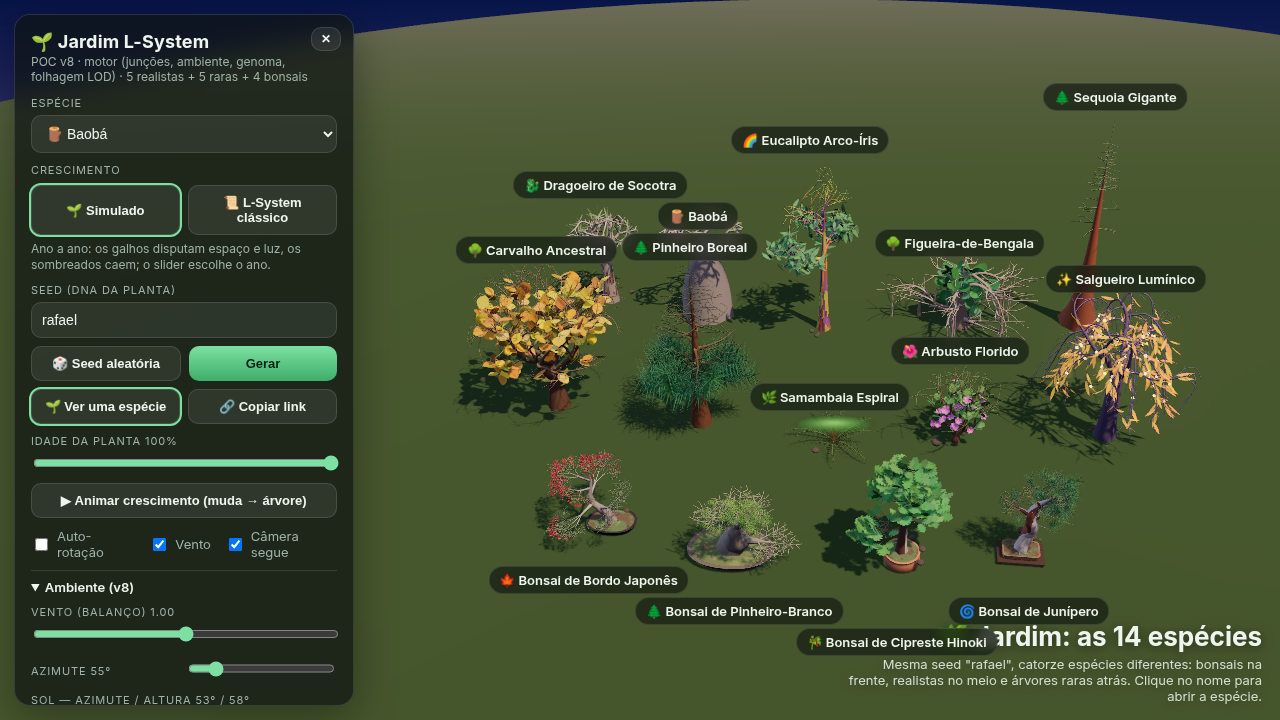
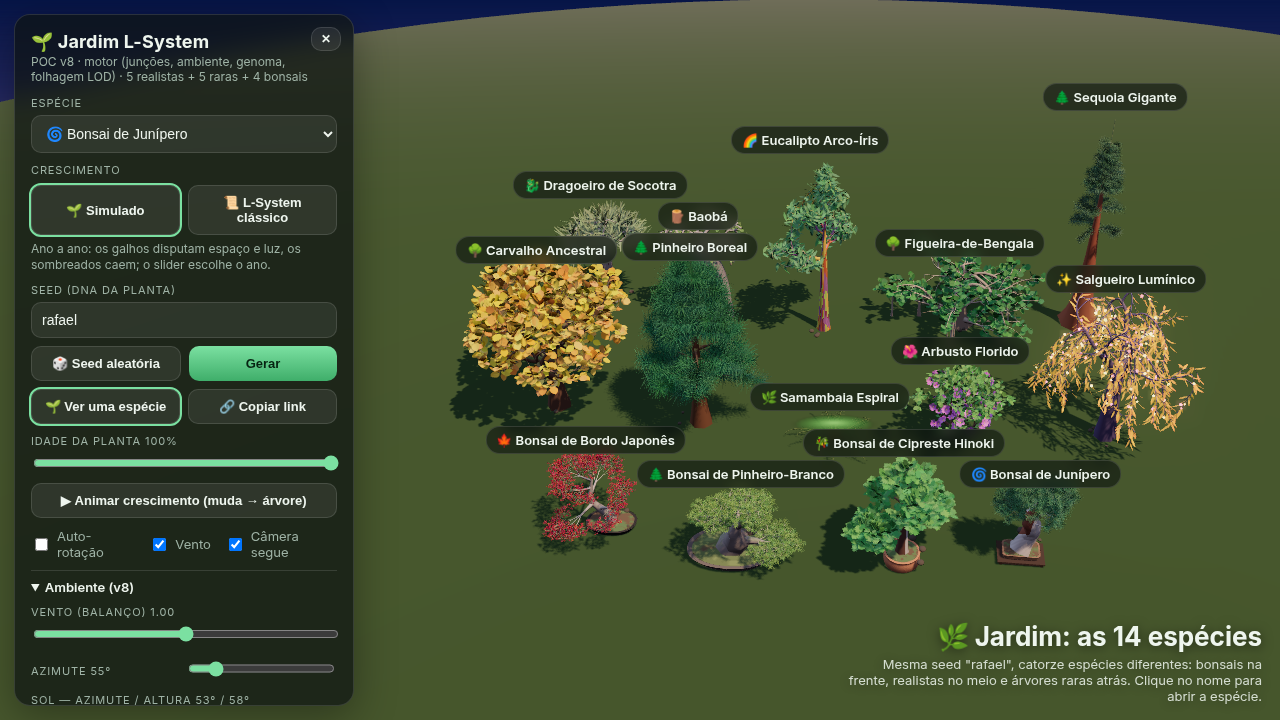
fix(v8): veio contínuo no junípero e copa cheia no jardim
O shari/jin deixa de furar o tubo e volta ao veio do shader da v7.
No jardim a folhagem não rareia no enquadramento, e os nomes dos
bonsais ficam acima da legenda.

diff --git a/index.html b/index.html
@@ -544,7 +544,6 @@ const depthMat = (kind, U, fx) => patch(new THREE.MeshDepthMaterial({ depthPacki
 
 const catmull = (a, b, c, d, t) => { const t2 = t * t, t3 = t2 * t; return 0.5 * (2 * b + (-a + c) * t + (2 * a - 5 * b + 4 * c - d) * t2 + (-a + 3 * b - 3 * c + d) * t3); };
 
-const idShari = (sp) => sp && (sp.fx === 'cipreste' || sp.fx === 'junipero');
 function buildTubes(sk, rFull, sp, P, rng, W, tags) {
   const TB = sp.tube; // v5: opções de tubo (tube.bump: perfil do tronco)
   const { N, X, Y, Z, PAR, T0, T1 } = sk;
@@ -621,15 +620,6 @@ function buildTubes(sk, rFull, sp, P, rng, W, tags) {
         const d = (arc - arc0) * scaleD;
         let bv = g.cap ? 0 : 1 + amp * ((0.55 * Math.sin(3 * th + ph1 + d * 1.3) + 0.45 * Math.sin(5 * th - d * 2.1 + ph2)) * (0.6 + 0.4 * nr));
         if (TB && TB.bump && !g.cap) bv *= TB.bump(th, arc, g, collarParent === -1, P);
-        if (!g.cap && tag > 0.5) bv *= 0.42 + 0.5 * Math.abs(Math.sin(th * 3.0 + d * 5.0));
-        if (!g.cap && (idShari(sp) && rF > (rFull[list[1]] || 0) * 0.35)) {
-          const cover = P.shari ?? P.dead ?? 0.2;
-          const twist = P.shariTwist ?? P.twist ?? 0;
-          const ang = th - twist * d * 0.35 - (P.phase || 0);
-          const edge = Math.cos(Math.PI * cover);
-          const band = Math.min(1, Math.max(0, (Math.cos(ang) - (edge - 0.18)) / 0.36));
-          bv *= 1 - 0.34 * band;
-        }
         bump.push(bv);
         if (sp.fx) fxa.push(tag);
         clr.push(c0.r, c0.g, c0.b);
@@ -684,12 +674,14 @@ function makeInstanced(kind, items, sp, P, rng, U, night, tags, lod, lodScale = 
   });
   geo.setAttribute('aLife', new THREE.InstancedBufferAttribute(lives, 2));
   let count2 = count, mats2 = mats, cols2 = cols;
-  const thin = lod && (kind === 'leaf' || kind === 'needles') && count > 1200;
-  if (thin) { // v8: LOD — menos instâncias, cachos maiores; impostor simples ao longe
-    const keep = lodScale < 0.45 ? 4 : 2;
+  // Jardim: no máximo 1 em cada 2 folhas, desenhadas √2 maiores para a silhueta continuar cheia.
+  // A redução forte (1/4) deixava sequoia, pinheiros e bonsais ralos na distância do jardim.
+  const thin = lod && lodScale < 0.75 && (kind === 'leaf' || kind === 'needles') && count > 2400;
+  if (thin) {
+    const keep = 2;
     count2 = Math.ceil(count / keep); mats2 = new Float32Array(count2 * 16); cols2 = new Float32Array(count2 * 3); const l2 = new Float32Array(count2 * 2);
     const mm = new THREE.Matrix4();
-    const scaleMul = lodScale < 0.45 ? 2.1 : 1.35;
+    const scaleMul = Math.sqrt(keep);
     for (let i = 0, j = 0; i < count; i += keep, j++) {
       mm.fromArray(mats, i * 16); const e = mm.elements; for (const q of [0, 1, 2, 4, 5, 6, 8, 9, 10]) e[q] *= scaleMul; mm.toArray(mats2, j * 16);
       cols2.set(cols.subarray(i * 3, i * 3 + 3), j * 3); l2.set(lives.subarray(i * 2, i * 2 + 2), j * 2);
@@ -795,7 +787,8 @@ function assemblePlant(pkg) {
     mesh.castShadow = mesh.receiveShadow = true;
     group.add(mesh);
   };
-  const joints = buildJointMeshes(sk, rTube, null, { limit: opts.lod ? 16 : 40 });
+  const deadwood = sp.fx === 'junipero' || sp.fx === 'cipreste';
+  const joints = deadwood ? null : buildJointMeshes(sk, rTube, null, { limit: opts.lod ? 16 : 40 });
   if (joints) {
     const barkCol = sp.bark(P)[0];
     addPlain(joints.joints, asColor(barkCol), 0.88);
@@ -812,7 +805,7 @@ function assemblePlant(pkg) {
     }
   }
   let nInst = 0;
-  const lodS = opts.lod ? 0.4 : 1;
+  const lodS = opts.lod ? 0.7 : 1;
   for (const k in inst) { if (!inst[k].length) continue; group.add(makeInstanced(k, inst[k], sp, P, rng, U, night, tags, W.lod, lodS)); nInst += inst[k].length; }
   const scale = sp.height / Math.max(rawH, rawW * 0.75);
   const cx = (box.min.x + box.max.x) / 2, cz = (box.min.z + box.max.z) / 2;
@@ -1157,7 +1150,8 @@ async function generate({ animate = true } = {}) {
           const b = pl.box.clone().translate(new V3(cx, 0, z)); all.union(b);
           const el = document.createElement('div'); el.className = 'glabel'; el.textContent = `${pl.sp.emoji} ${pl.sp.name}`;
           el.onclick = () => { ui.species.value = pl.id; setMode('single'); generate(); };
-          $('labels').appendChild(el); labels.push({ el, pos: ids === ROWS[0] ? new V3(cx, -0.2, z + Math.min(depth * 0.3, 2.5)) : new V3(cx, b.max.y + 0.4, z), above: ids !== ROWS[0] }); // v5: fileiras de trás com o nome em cima da copa
+          $('labels').appendChild(el);
+          labels.push({ el, pos: new V3(cx, b.max.y + (ids === ROWS[0] ? 0.15 : 0.4), z), above: true });
         });
         prevDepth = depth;
       }
@@ -1309,12 +1303,13 @@ function loop() {
     pl.object.getWorldPosition(tmpV);
     const dist = camera.position.distanceTo(tmpV);
     const h = Math.max(pl.box.getSize(tmpV).y, 0.5);
-    const far = dist > h * 16;
+    const pix = h / (2 * Math.tan(camera.fov * DEG * 0.5) * Math.max(dist, 0.5)) * innerHeight;
+    const far = pix < 42;
     if (pl.impostor) pl.impostor.visible = far;
     for (const m of pl.foliage) {
       m.visible = !far;
       if (!m.userData.fullCount) m.userData.fullCount = m.count;
-      m.count = far ? m.userData.fullCount : dist > h * 8 ? Math.max(8, m.userData.fullCount >> 2) : dist > h * 4.5 ? Math.max(8, m.userData.fullCount >> 1) : m.userData.fullCount;
+      m.count = m.userData.fullCount;
     }
   }
   controls.update();
@@ -1333,6 +1328,13 @@ function loop() {
     for (let i = 0; i < vis.length; i++) for (let j = 0; j < i; j++) {
       const a = vis[i], b = vis[j];
       if (Math.abs(a.x - b.x) < (a.w + b.w) / 2 + 4 && a.y < b.y + b.h + 3 && a.y + a.h > b.y - 3) { a.y = b.y + b.h + 3; j = -1; }
+    }
+    const cap = $('caption');
+    if (cap) {
+      const r = cap.getBoundingClientRect();
+      for (const l of vis) {
+        if (l.x + l.w / 2 > r.left - 10 && l.x - l.w / 2 < r.right + 10 && l.y + l.h > r.top - 6 && l.y < r.bottom) l.y = r.top - l.h - 10;
+      }
     }
     for (const l of vis) { l.el.style.left = l.x + 'px'; l.el.style.top = l.y + 'px'; }
   }

diff --git a/docs/ROADMAP.md b/docs/ROADMAP.md
@@ -4,9 +4,9 @@
 
 Os itens 1 (colonização do espaço + luz) e 2 (simulação de crescimento ano a ano) foram feitos na v7 ([ARQUITETURA §13](ARQUITETURA.md#13-crescimento-simulado-v7)). Ficaram anotados para depois:
 
-3. ~~**Superfície única nas junções.**~~ **v8**: esferas nas forquilhas grossas (tronco e andaime, sem teto de 4000 nós) + shari/jin entalhados no raio do tubo. Não é um SDF contínuo em toda a copa.
+3. ~~**Superfície única nas junções.**~~ **v8**: esferas nas forquilhas grossas (tronco e andaime, sem teto de 4000 nós). No junípero e no cipreste a madeira morta é o veio contínuo do shader, como na v7. Não é um SDF contínuo em toda a copa.
 4. ~~**Física e ambiente.**~~ **v8**: vento, sol, gravidade e fototropismo no painel (desligados no padrão para não mudar a v7). Com eles ligados, a sombra da simulação segue o sol, a copa entorta e os galhos grossos vergam. Raízes desviam de pedras e ficam dentro do vaso.
-5. ~~**Folhagem melhor e mais leve.**~~ **v8**: a simulação inteira vai para Web Workers; no jardim, folhas distantes caem para 1/2, 1/4 e depois um impostor. Cachos grandes no close-up foram retirados porque inchavam a copa.
+5. ~~**Folhagem melhor e mais leve.**~~ **v8**: a simulação inteira vai para Web Workers. No enquadramento do jardim a copa fica cheia (no máximo metade das folhas, desenhadas maiores). O impostor só aparece quando a planta ocupa menos de ~40 px. Cachos grandes no close-up foram retirados porque inchavam a copa.
 6. ~~**Seed como genoma legível.**~~ **v8**: nove genes, painel, cruzamento, mutação, hash `&genoma=`, PNG e glTF.
 
 ## Geometria e madeira

diff --git a/docs/ARQUITETURA.md b/docs/ARQUITETURA.md
@@ -272,5 +272,5 @@ A montagem pesada (L-System ou simulação) roda em `plant-worker.mjs` (`buildSk
 
 Por padrão os genes são **mostrados** e não aplicados, a gravidade e o fototropismo começam em 0 e a sombra da simulação continua vertical — o visual padrão acompanha a v7. Cruzar, mutar ou mover um gene passa a aplicar o genoma (`&genoma=` no hash).
 
-Junções: esferas só nas forquilhas grossas (tronco e andaime, inclusive o carvalho), com material simples de casca. Shari e jin entalham o raio do tubo (`aBump`) e o jin ganha lascas claras. Raízes de superfície desviam de três pedras semeadas e, no bonsai, permanecem dentro da elipse do vaso. Folhagem distante reduz instâncias e, mais longe, troca por um impostor.
+Junções: esferas só nas forquilhas grossas (tronco e andaime, inclusive o carvalho), com material simples de casca. No junípero e no cipreste a madeira morta continua o veio contínuo do shader (`LS_DEAD`), sem furar o tubo. Raízes de superfície desviam de três pedras semeadas e, no bonsai, permanecem dentro da elipse do vaso. No jardim a folhagem fica na densidade da v7 (no máximo 1 em cada 2 folhas, desenhadas maiores); o impostor só entra quando a planta ocupa menos de ~40 px.
 

diff --git a/docs/HISTORICO.md b/docs/HISTORICO.md
@@ -7,6 +7,7 @@ Datas no horário de Brasília (UTC−3).
 - Visual padrão de novo alinhado à v7: genes só mudam a planta quando o usuário cruza, muta ou edita um controle. Gravidade e fototropismo começam em zero. A sombra simulada volta a cair na vertical até o sol sair do padrão.
 - Junções nas forquilhas grossas (inclui o carvalho), sem a malha que furava o junípero. Shari/jin entalhados no tubo.
 - Jardim montado em Web Workers (4): cerca de 2 s de CPU de esqueleto no headless, UI livre durante a simulação.
+- Madeira morta do junípero volta ao veio contínuo do shader da v7 (sem furos geométricos). No jardim a folhagem não rareia na distância do enquadramento; o impostor só entra quando a planta fica minúscula na tela.
 - Raízes desviam de pedras e do vaso. LOD por distância (metade / quarto das folhas, depois impostor).
 - Painel de genoma: dois pais, filho, sliders com nomes em português, mutação.
 
